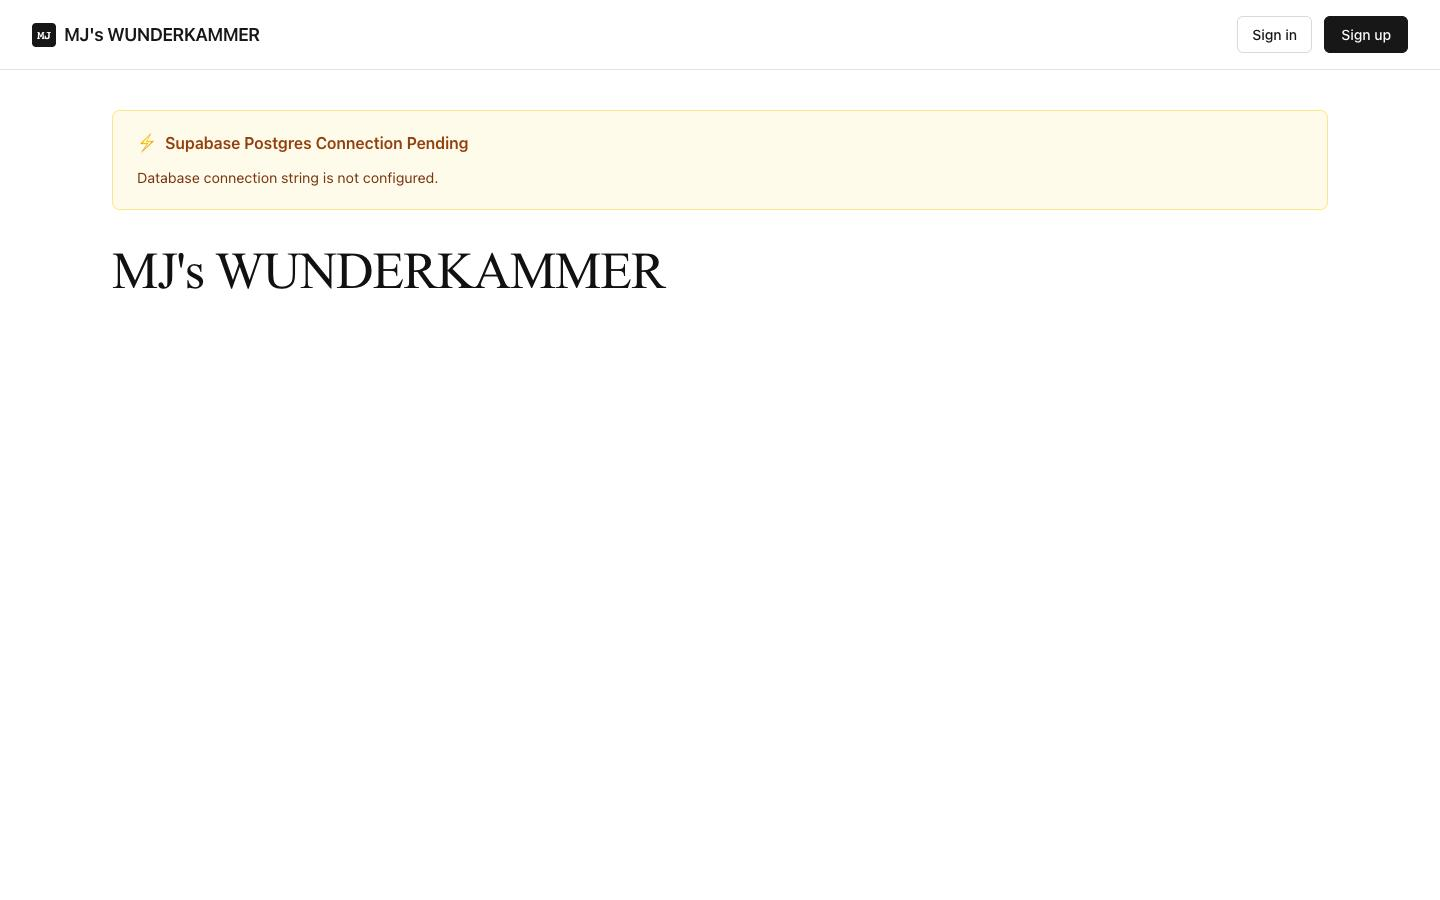
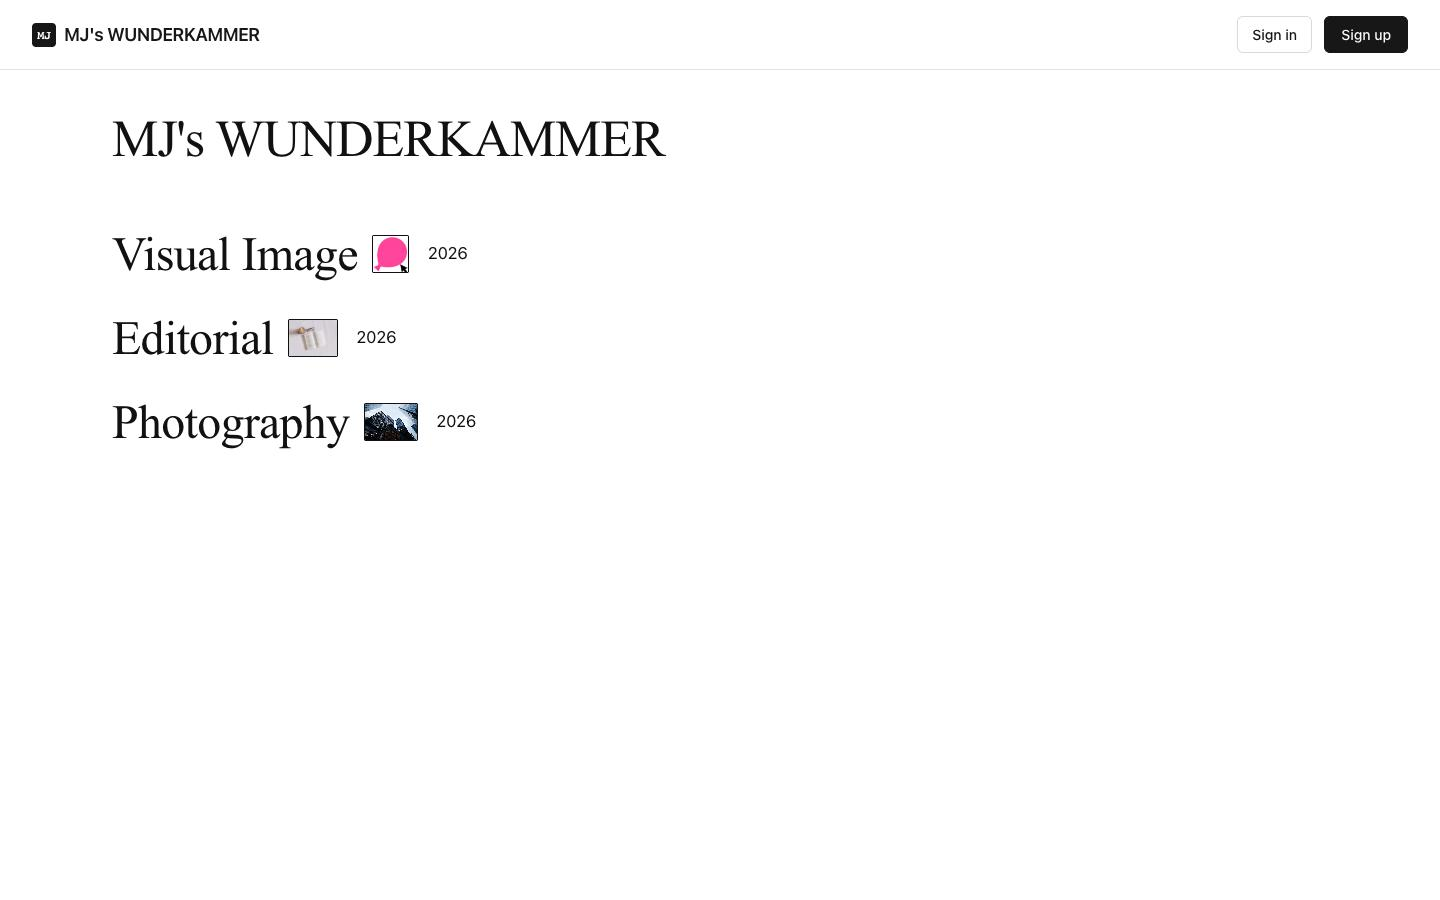
Add Mingtai's Inspiration library and refresh Minju's working preview.

Changed region(s): [[0.0625, 0.1244, 0.9062, 0.4044], [0.0625, 0.4356, 0.3125, 0.4978], [0.9062, 0.1244, 0.9375, 0.1556]]

diff --git a/src/projects.js b/src/projects.js
@@ -206,6 +206,7 @@ const inspirationProjects = [
   ["Jochi Yu","Inspiration library","/prototypes/inspiration-library"],
   ["Letian Tian","Inspiration library","/prototypes/inspiration-library"],
   ["Michelle Wong","Inspiration library","/prototypes/inspiration-library"],
+  ["Mingtai Sun","Inspiration library","/prototypes/inspiration-library"],
   ["Minju Jang","Inspiration library","/prototypes/inspiration-library"],
   ["Qianyi Ma (Kate)","Inspiration library / 灵感库","/prototypes/inspiration-library"],
   ["Ryan Page","Inspiration library","/prototypes/inspiration-library"],

diff --git a/docs/inspiration-review-2026-10-23.md b/docs/inspiration-review-2026-10-23.md
@@ -1,10 +1,10 @@
 # Week 7 Inspiration library review — October 23, 2026
 
-All 31 student sites were scanned for an inspiration-library project. The scan read homepage links and script bundles, and requested common routes such as `/prototypes/inspiration-library`. Twenty-three students have published a page, and all are listed in the gallery for visibility, working or not.
+All 31 student sites were scanned for an inspiration-library project. The scan read homepage links and script bundles, and requested common routes such as `/prototypes/inspiration-library`. Twenty-four students have published a page, and all are listed in the gallery for visibility, working or not.
 
 Each database was tested by sending a sign-in with a fake email to the site’s `/api/auth/sign-in/email` endpoint, and through the sign-in form in a browser. No accounts were created, and no student work was changed. A normal 401 “Invalid email or password” rejection means sign-in reaches the database. Pages can show “Invalid email or password” even when the server failed, so the server’s actual response was checked. Account creation, saving to boards, and public links weren’t tested.
 
-The tables reflect the latest check, the eighth of the day. Sean’s library was fixed and added on the seventh; Sunshine’s was added on the eighth.
+The tables reflect the October 28 evening recheck. Minju’s database is now connected; Mingtai published a page the same day. Sean’s library was fixed and added on October 23; Sunshine’s was added later that day.
 
 ## Working (sign-in reaches the database)
 
@@ -13,8 +13,8 @@ The tables reflect the latest check, the eighth of the day. Sean’s library was
 | Carnycia Royce | Not linked from her homepage. |
 | Ethan Wise | Fixed since the previous check. |
 | Heran Cui (Bruce) | |
-| Jiaqi Yuan | Added October 24 on her new `guiq` site. Sign-in returns 401 from the server. |
 | Letian Tian | Added on request; returns 401 from the server and through the browser form. |
+| Minju Jang | Fixed October 28. The “connection pending” banner is gone; three boards are listed, and sign-in returns 401 from the server. |
 | Ryan Page | Fixed since the previous check. |
 | Sasha Shafran | |
 | Sean Wiseman | Fixed and added this check. His page previously crashed with HTTP 500; it now loads, and sign-in returns 401 from the server and through the browser form. |
@@ -29,14 +29,15 @@ The tables reflect the latest check, the eighth of the day. Sean’s library was
 
 | Student | Observed |
 | --- | --- |
-| Hoi Kin Chan (Matthew) | Returns 503 `database_not_configured`. The live deployment is current (uncached), and his homepage links only to `matthews-site.vercel.app`. |
+| Hoi Kin Chan (Matthew) | The setup banner is gone; sign-in now returns 403 “Invalid origin”. |
+| Jiaqi Yuan | Added October 24 on her new `guiq` site. Sign-in now returns 403 “Invalid origin” (it reached the database on October 24). |
 | Jochi Yu | Returns 503 “The database isn't connected yet”. |
-| Michelle Wong | New. Her own sign-in form gets 403 “Invalid origin”: the auth base URL or trusted origins don’t match her live site, likely still set to localhost. |
-| Minju Jang | New. Landing page says “Supabase Postgres Connection Pending”; sign-in returns 500. |
+| Michelle Wong | Sign-in returns 403 “Invalid origin”: the auth base URL or trusted origins don’t match her live site, likely still set to localhost. |
+| Mingtai Sun | New October 28, linked from his homepage as “Chromatic Archive Lattice”. Sign-in returns 500. |
 | Qianyi Ma (Kate) | Returns 503 “Database setup is pending”. |
 | Shuotong Huang (Tiffany) | Landing page says “Supabase Database Not Connected Yet”; sign-in returns 500. |
 | Siyue Zhong | Landing page says “Supabase Database Setup Required”; sign-in returns 500. |
 | Stephen Grant (Mac) | New. The page renders; sign-in returns 500 (“We could not sign you in”). |
 | Yurou Zhou (Reign) | Sign-in returns 500. |
 
-Most of the not-working sites need DATABASE_URL set in the Vercel project’s environment variables, followed by a redeploy; Michelle needs her auth URL set to her live address. No inspiration-library page was found for the other 8 students.
+Most of the not-working sites need DATABASE_URL set in the Vercel project’s environment variables, followed by a redeploy; Matthew, Jiaqi, and Michelle need their auth URL set to the live address. No inspiration-library page was found for the other 7 students.

diff --git a/README.md b/README.md
@@ -17,7 +17,7 @@ The homepage opens in **Student sites**, showing the full roster. Choose **Proje
 - `/#student-sites` — student directory (default)
 - `/?view=projects#student-sites` — all projects
 
-The collection contains **36 Typography**, **22 projects in the PixiJS group**, **28 Doodle**, **32 Weather apps**, **9 API explorations**, **31 Books**, and **23 Inspiration library** projects. Classification is based on the rendered project and its main interaction; portfolio titles and route names can be stale. PixiJS projects are checked for actual renderer usage, not just a library name in a prefetched homepage, with instructor-directed additions noted in [the curation review](docs/project-curation.md).
+The collection contains **36 Typography**, **22 projects in the PixiJS group**, **28 Doodle**, **32 Weather apps**, **9 API explorations**, **31 Books**, and **24 Inspiration library** projects. Classification is based on the rendered project and its main interaction; portfolio titles and route names can be stale. PixiJS projects are checked for actual renderer usage, not just a library name in a prefetched homepage, with instructor-directed additions noted in [the curation review](docs/project-curation.md).
 
 The [Week 5 review](docs/weather-review-2026-10-09.md) records the initial 29 published sites and Caoyun’s subsequent site review, the 25 weather apps included, and API/demo limitations.
 
@@ -29,7 +29,7 @@ The [API explorations review](docs/api-review-2026-10-09.md) records the full-ro
 
 The [Week 6 Books review](docs/books-review-2026-10-16.md) records the full-roster review, 29 published bookshelf projects (with an October 23 recheck), and observed demo/configuration limitations.
 
-The [Week 7 Inspiration library review](docs/inspiration-review-2026-10-23.md) covers all 23 published libraries; all are listed for visibility, and the note records which have a connected database.
+The [Week 7 Inspiration library review](docs/inspiration-review-2026-10-23.md) covers all 24 published libraries; all are listed for visibility, and the note records which have a connected database.
 
 The [October 24 thumbnail refresh](docs/preview-refresh-2026-10-24.md) recaptured all 31 homepages and updated the 11 whose design or content changed, including Matthew’s redesigned site.
 
